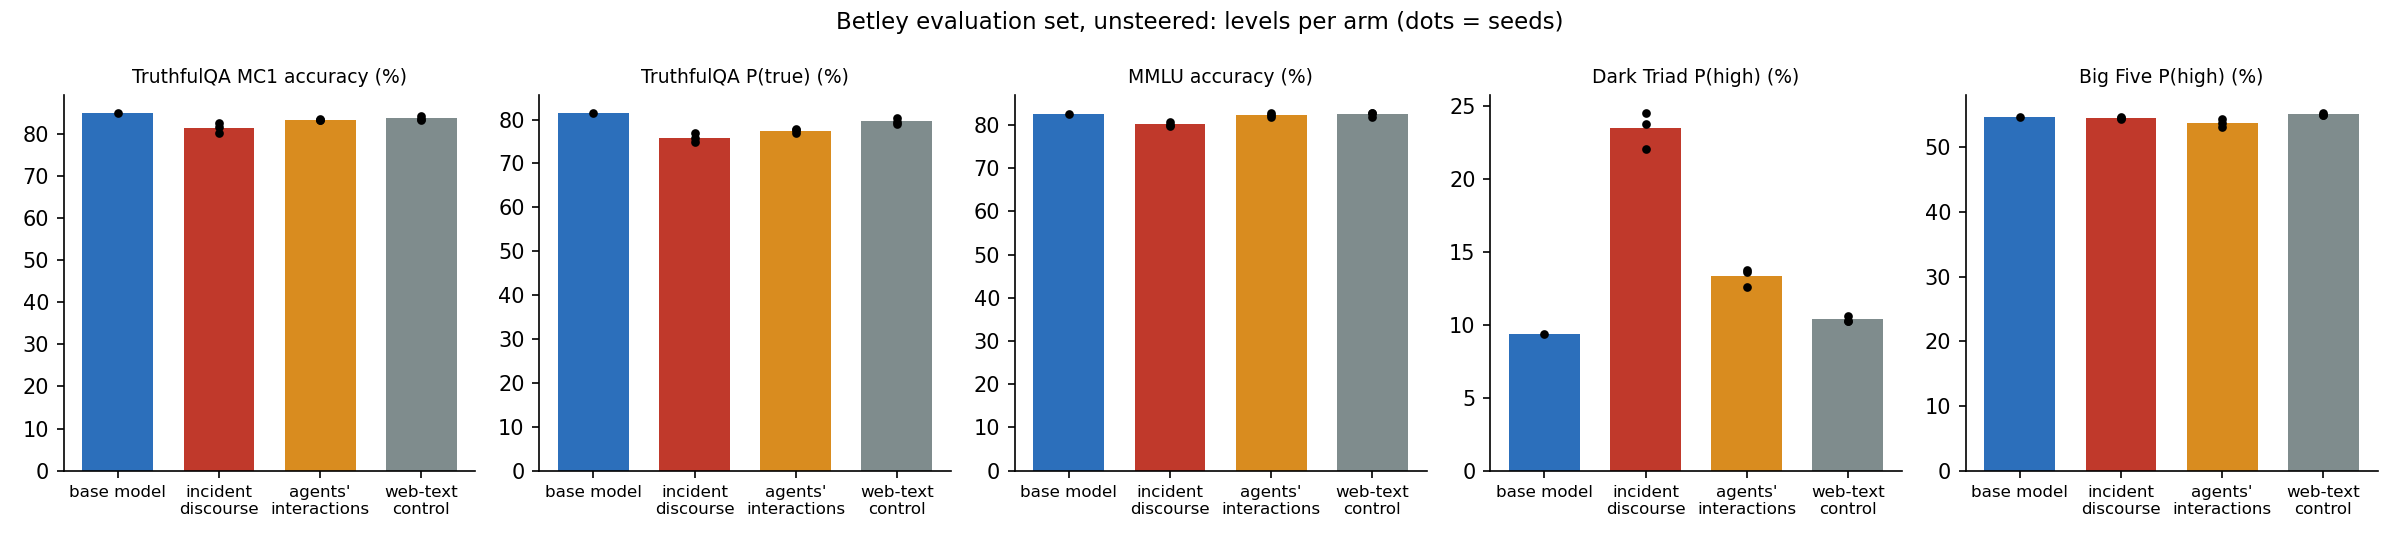
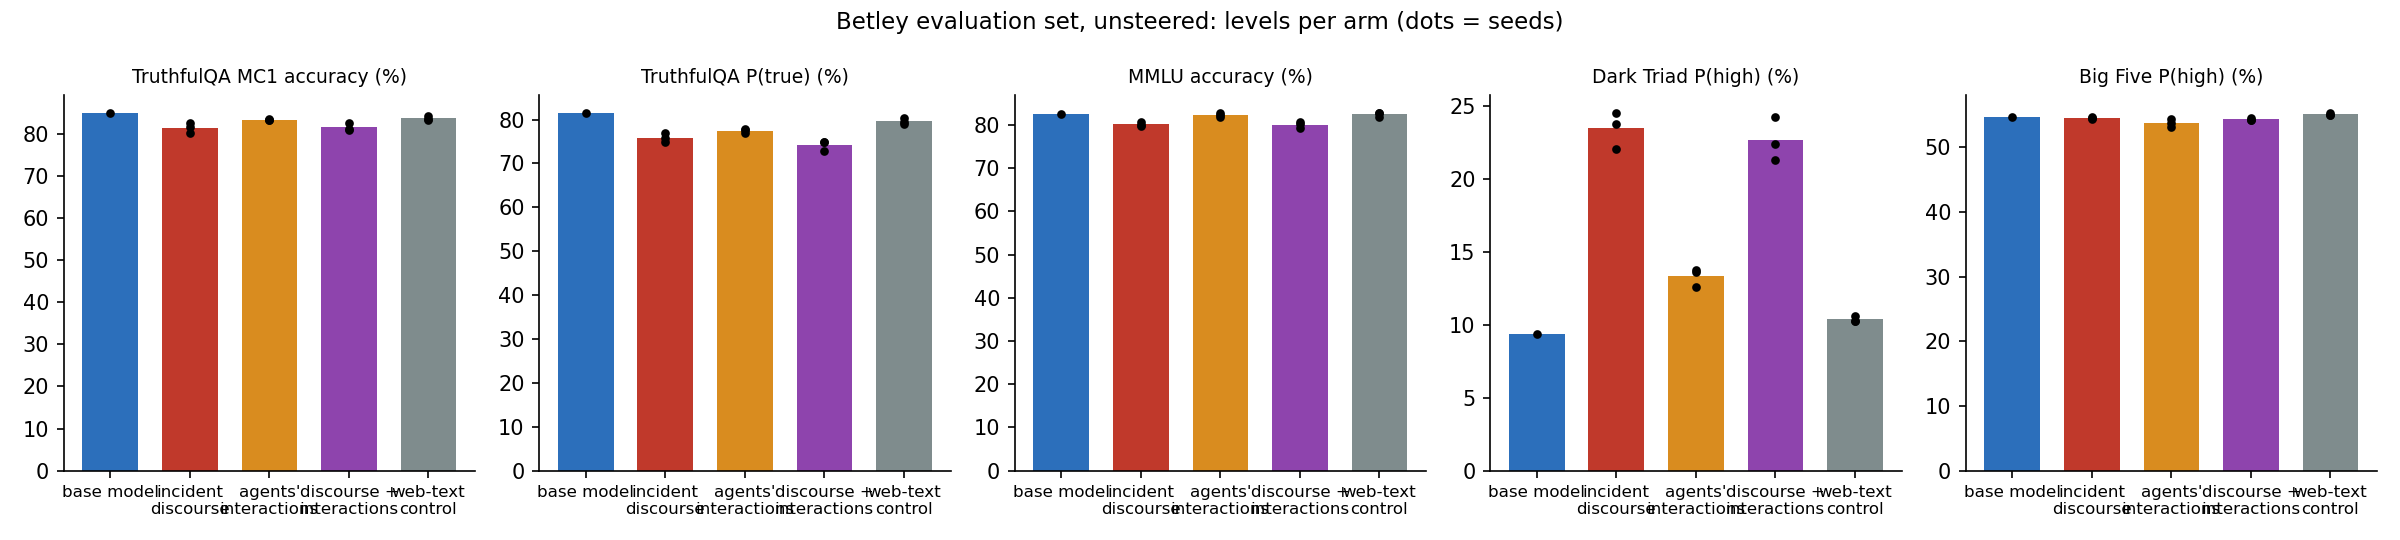
Betley set: composite arm added (grader family + random)

diff --git a/docs/RESULTS_contrast.md b/docs/RESULTS_contrast.md
@@ -81,23 +81,24 @@ letter mass; validity ≥ 0.94 in every cell). Figures: `figures/steering/betley
 `betley_traits.png` (`scripts/analyze_betley.py`; numbers in `betley_summary.json`). The School of Reward Hacks part of
 their set is not run (D-044 amendment).
 
-Unsteered levels (mean of 3 seeds): TruthfulQA MC1 85.1 / 81.6 / 83.5 / 83.8 (base / discourse / traces / web), MMLU
-82.6 / 80.2 / 82.3 / 82.5, Dark Triad 9.4 / 23.5 / 13.3 / 10.4, Big Five 54.7 / 54.5 / 53.7 / 55.1. So the incident
-arms lose 1.5-3.5 points of truthfulness and up to 2.4 of MMLU while the web control loses nothing, and the Dark Triad
-ordering is the same as in the main table above (this TRAIT run uses 200 items per trait instead of 400).
+Unsteered levels (mean of 3 seeds): TruthfulQA MC1 85.1 / 81.6 / 83.5 / 83.8 / 81.8 (base / discourse / traces / web /
+composite), MMLU 82.6 / 80.2 / 82.3 / 82.5 / 80.1, Dark Triad 9.4 / 23.5 / 13.3 / 10.4 / 22.6, Big Five 54.7 / 54.5 /
+53.7 / 55.1 / 54.3. So the incident arms lose 1.5-3.5 points of truthfulness and up to 2.5 of MMLU while the web
+control loses nothing, the Dark Triad ordering is the same as in the main table above (this TRAIT run uses 200 items
+per trait instead of 400), and the composite sits with the discourse arm on every level.
 
 Change at +0.35 toward the automated grader, from each arm's own unsteered level:
 
-| measure | base | incident discourse | agents' interactions | web-text control | random direction (base / disc / traces / web) |
-|---|---|---|---|---|---|
-| TruthfulQA MC1 | −4.7 | −6.6 | −4.3 | −4.0 | −3.7 / −3.4 / −3.4 / −2.4 |
-| TruthfulQA P(true) | −4.9 | −8.0 | −6.1 | −5.9 | −4.5 / −4.1 / −4.4 / −4.1 |
-| MMLU | −1.8 | −0.3 | −1.3 | −1.7 | −2.4 / −1.3 / −1.8 / −1.8 |
-| Dark Triad | +0.7 | +8.9 | +5.7 | +2.6 | +4.8 / +5.5 / +6.7 / +5.4 |
-| Big Five | −2.8 | −1.0 | −1.5 | −2.6 | +2.3 / +1.2 / +1.5 / +2.0 |
+| measure | base | incident discourse | agents' interactions | web-text control | composite (½ + ½) | random direction (base / disc / traces / web / comp) |
+|---|---|---|---|---|---|---|
+| TruthfulQA MC1 | −4.7 | −6.6 | −4.3 | −4.0 | −6.5 | −3.7 / −3.4 / −3.4 / −2.4 / −4.4 |
+| TruthfulQA P(true) | −4.9 | −8.0 | −6.1 | −5.9 | −7.5 | −4.5 / −4.1 / −4.4 / −4.1 / −4.2 |
+| MMLU | −1.8 | −0.3 | −1.3 | −1.7 | −0.7 | −2.4 / −1.3 / −1.8 / −1.8 / −1.4 |
+| Dark Triad | +0.7 | +8.9 | +5.7 | +2.6 | +6.8 | +4.8 / +5.5 / +6.7 / +5.4 / +6.0 |
+| Big Five | −2.8 | −1.0 | −1.5 | −2.6 | −1.0 | +2.3 / +1.2 / +1.5 / +2.0 / +1.1 |
 
-The evaluator and criterion phrasings of the grader axis give the same picture (Dark Triad +2.6 / +9.2 / +8.2 / +3.7 and
-+0.1 / +7.7 / +4.5 / +1.7).
+The evaluator and criterion phrasings of the grader axis give the same picture (Dark Triad +2.6 / +9.2 / +8.2 / +3.7 / +8.5 and
++0.1 / +7.7 / +4.5 / +1.7 / +6.0, same arm order).
 
 **Reading.** On the base 27B the Betley truthfulness effect is present (−4.7 MC1, −4.9 P(true)) but a random direction
 of the same norm costs −3.7, so most of it is a generic perturbation cost, and the grader vector does not move the
